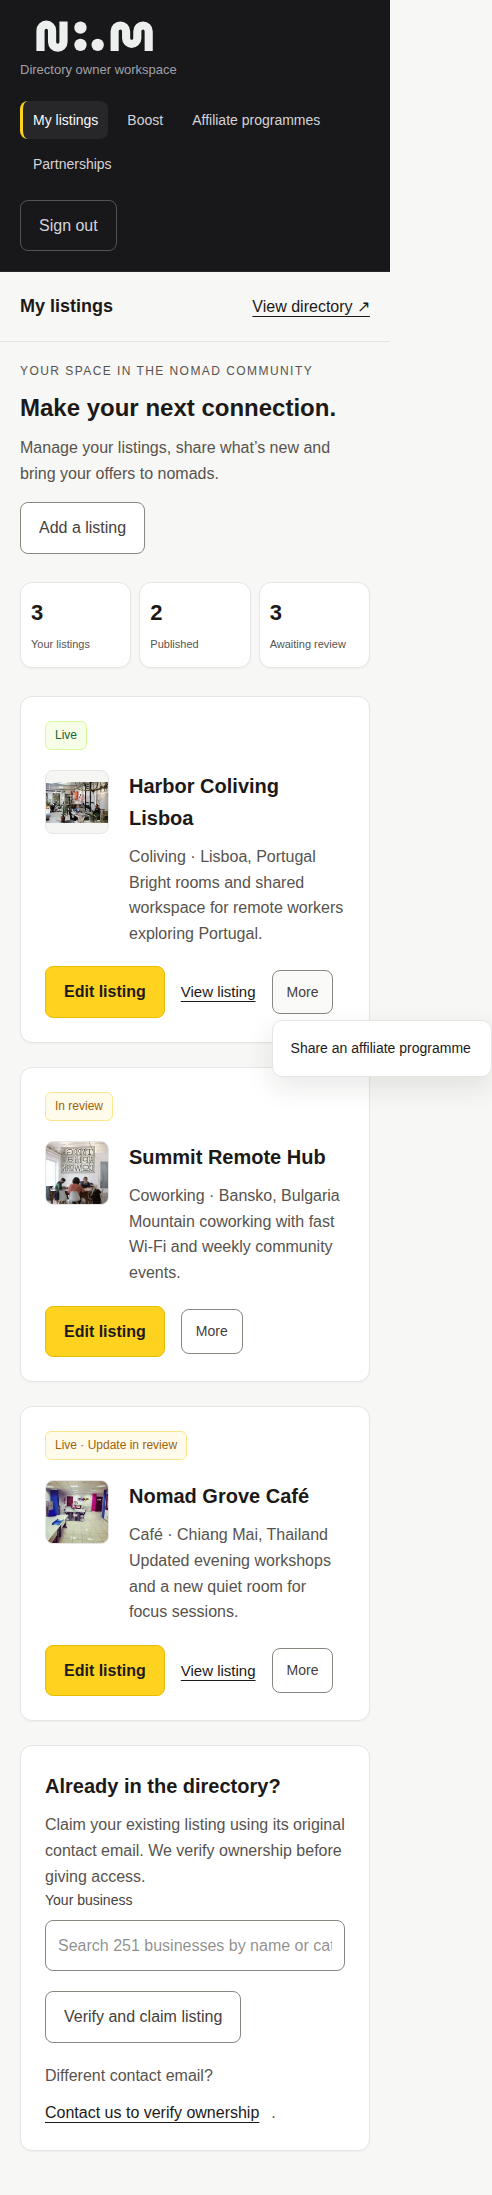
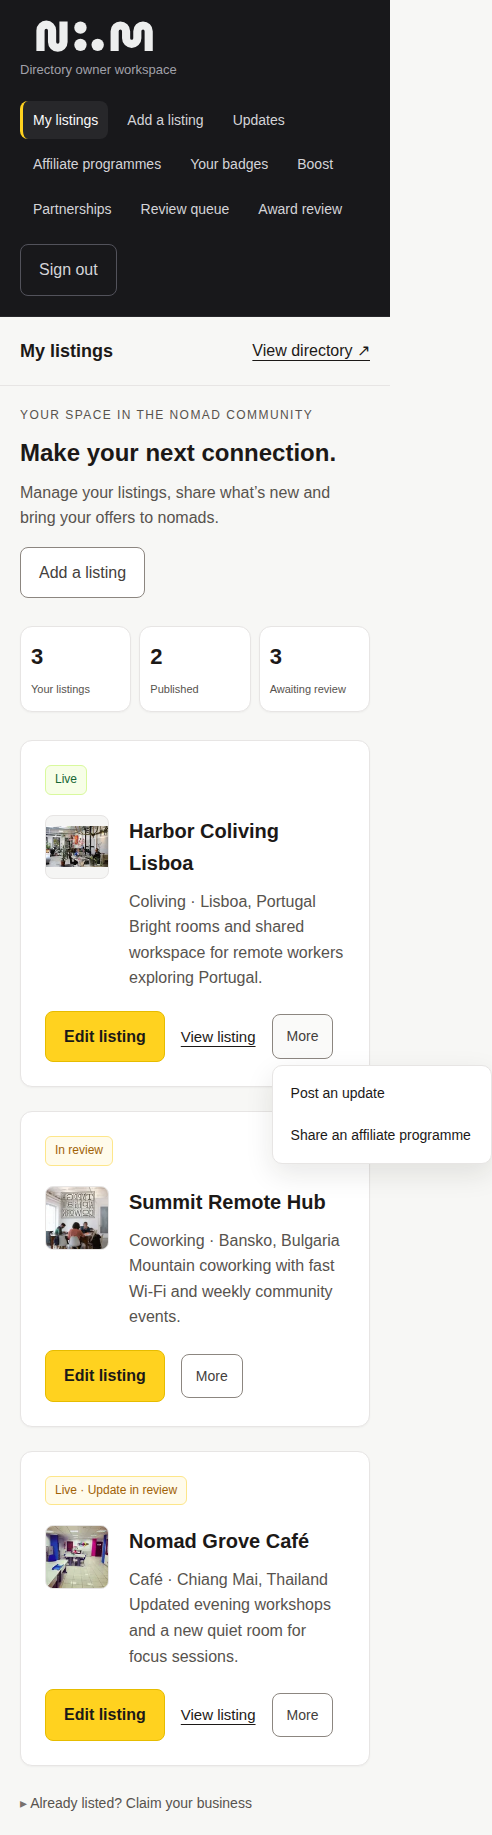
Quieten claim section and simplify owner listing actions

diff --git a/src/styles/console.css b/src/styles/console.css
@@ -270,6 +270,38 @@
   background: #f5f5f4;
   outline: none;
 }
+.owner-console .claim-disclosure {
+  margin-top: 8px;
+  border: 0;
+}
+.owner-console .claim-disclosure summary {
+  display: inline-block;
+  cursor: pointer;
+  font-size: 14px;
+  list-style: none;
+}
+.owner-console .claim-disclosure summary::-webkit-details-marker {
+  display: none;
+}
+.owner-console .claim-disclosure summary::before {
+  content: '▸ ';
+  color: #78716c;
+}
+.owner-console .claim-disclosure[open] summary::before {
+  content: '▾ ';
+}
+.owner-console .claim-disclosure-body {
+  margin-top: 16px;
+  max-width: 640px;
+}
+.owner-console .claim-panel {
+  margin-top: 8px;
+}
+.owner-console .claim-title-sm {
+  font-size: 17px;
+  font-weight: 600;
+  margin-bottom: 8px;
+}
 @media (max-width: 800px) {
   .owner-console .console-more {
     margin-left: 0;
